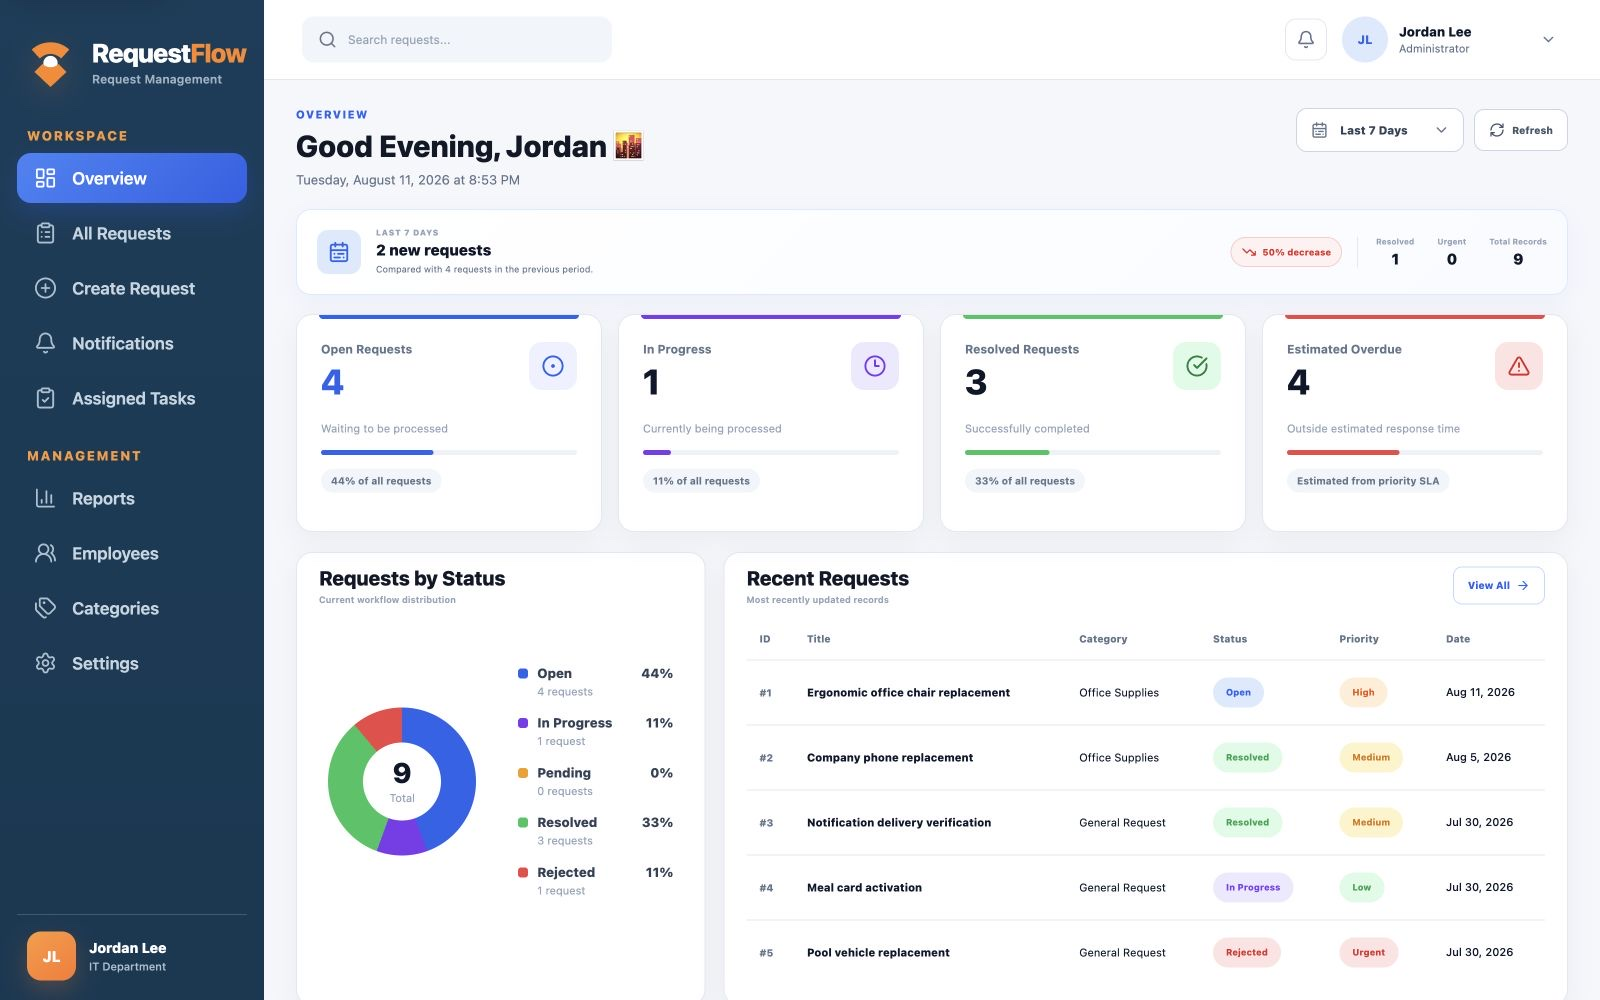
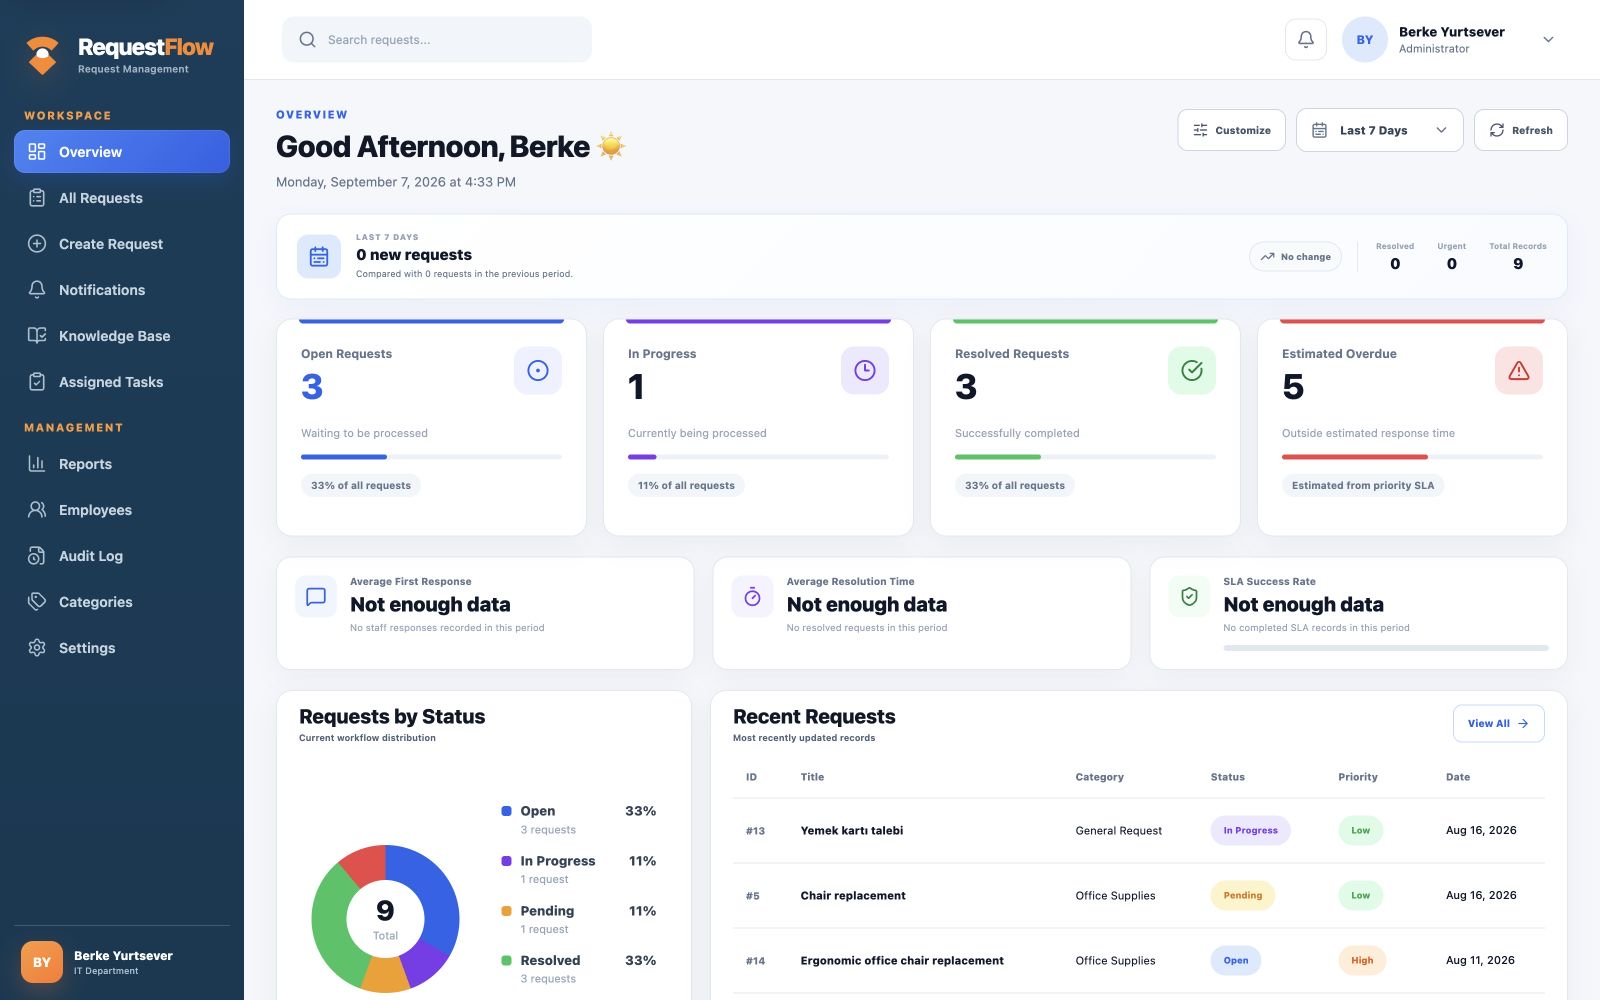
Refresh README interface screenshots

diff --git a/README.md b/README.md
@@ -18,12 +18,16 @@ RequestFlow is a full-stack, role-based request management system developed duri
 - Secure, expiring, single-use email password reset links
 - Session invalidation after password changes and resets
 - Request creation, editing, deletion, assignment, and status tracking
+- List and Kanban workflows with drag-and-drop status updates
 - Priority management, advanced filtering, sorting, and pagination
-- Comments, attachments, permanent activity history, and notifications
+- Request templates, category-specific fields, and draft autosave
+- Comments, attachments, permanent activity history, and real-time notifications
+- Knowledge base guides and frequently asked questions
 - Employee, role, category, and system-setting management
 - Dashboard charts, personnel workload, response/resolution time, and SLA metrics
 - Per-user dashboard card customization saved across sessions
-- Reports with CSV and PDF export
+- SLA monitoring and an administrative audit log
+- Reports with CSV/PDF export and scheduled email delivery
 - Light and dark themes
 - Responsive desktop, tablet, and mobile layouts
 - Route-level loading so screens download only when opened
@@ -43,6 +47,10 @@ The gallery below was captured from the local Administrator interface in light m
 
 ![All requests](docs/screenshots/readme/03-all-requests.jpg)
 
+### Kanban Workflow
+
+![Request Kanban workflow](docs/screenshots/readme/12-kanban-board.jpg)
+
 ### Create Request
 
 ![Create request](docs/screenshots/readme/04-create-request.jpg)
@@ -55,6 +63,10 @@ The gallery below was captured from the local Administrator interface in light m
 
 ![Request attachments and activity](docs/screenshots/readme/06-request-details.jpg)
 
+### Knowledge Base
+
+![Knowledge base guides and FAQs](docs/screenshots/readme/10-knowledge-base.jpg)
+
 ### Employee Management
 
 ![Employee role management](docs/screenshots/readme/07-admin-management.jpg)
@@ -62,6 +74,10 @@ The gallery below was captured from the local Administrator interface in light m
 ### Reports and Analytics
 
 ![Reports and analytics](docs/screenshots/readme/08-reports.jpg)
+
+### Administrative Audit Log
+
+![Administrative audit log](docs/screenshots/readme/11-audit-log.jpg)
 
 ### Mobile Navigation
 
